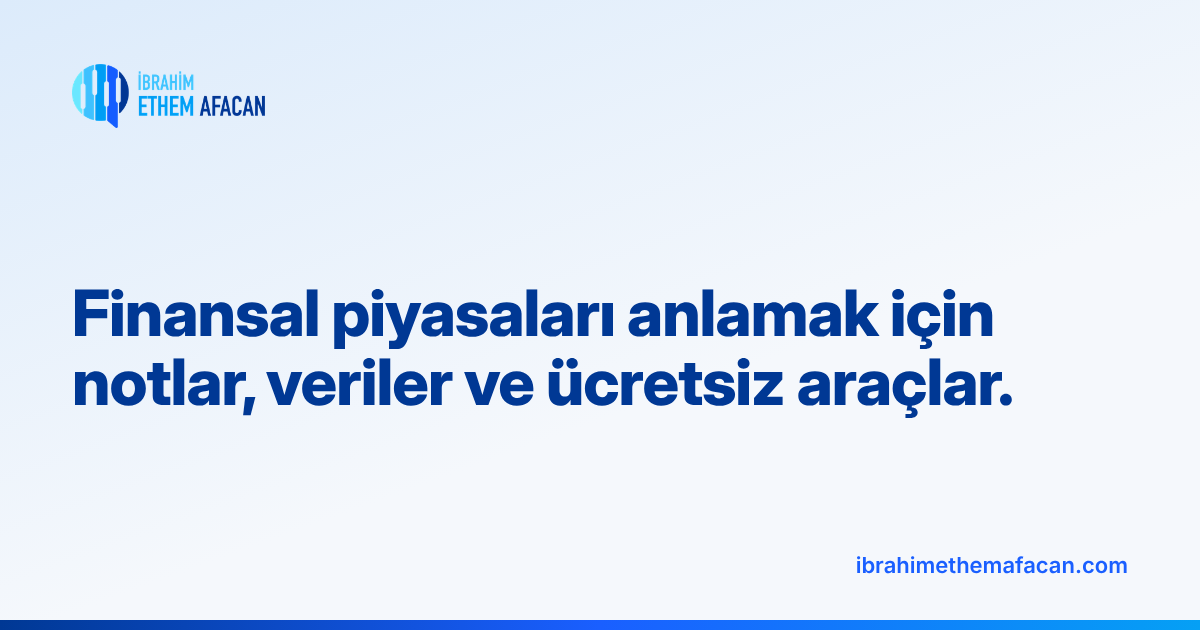
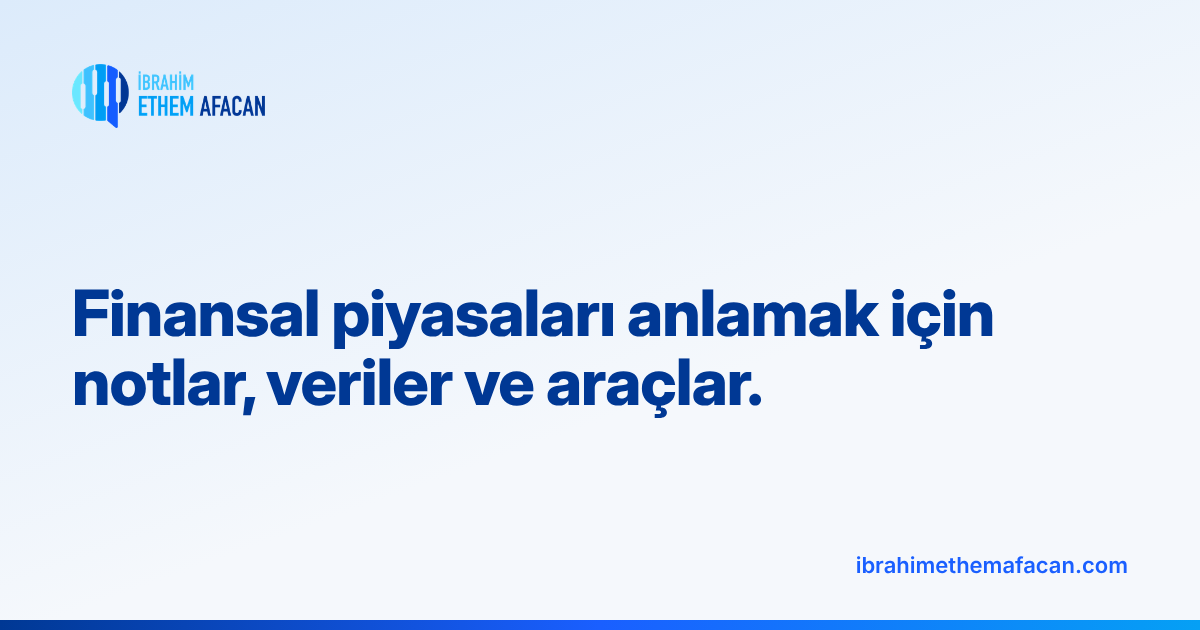
Ana sayfa başlığı: 'ücretsiz' kaldırıldı
Claude-Session: https://claude.ai/code/session_013mrGbpFadh1h9epcSoKPzq

Changed region(s): [[0.4625, 0.573, 0.8633, 0.6635]]

diff --git a/index.html b/index.html
@@ -11,14 +11,14 @@
   <meta property="og:title" content="İbrahim Ethem Afacan">
   <meta property="og:description" content="İbrahim Ethem Afacan: portföy yöneticisi. Piyasa notları, sermaye piyasası lisans köşesi ve yatırımcılar için ücretsiz araçlar.">
   <meta property="og:url" content="https://ibrahimethemafacan.com/">
-  <meta property="og:image" content="https://ibrahimethemafacan.com/img/og-home.png">
+  <meta property="og:image" content="https://ibrahimethemafacan.com/img/og-home.png?v=2">
   <meta property="og:image:width" content="1200">
   <meta property="og:image:height" content="630">
   <meta name="twitter:card" content="summary_large_image">
   <meta name="twitter:site" content="@ibrahim___ethem">
   <meta name="twitter:title" content="İbrahim Ethem Afacan">
   <meta name="twitter:description" content="İbrahim Ethem Afacan: portföy yöneticisi. Piyasa notları, sermaye piyasası lisans köşesi ve yatırımcılar için ücretsiz araçlar.">
-  <meta name="twitter:image" content="https://ibrahimethemafacan.com/img/og-home.png">
+  <meta name="twitter:image" content="https://ibrahimethemafacan.com/img/og-home.png?v=2">
   <link rel="icon" href="/favicon.ico" sizes="any">
   <link rel="icon" type="image/png" sizes="32x32" href="/img/favicon-32.png">
   <link rel="icon" type="image/png" sizes="192x192" href="/img/favicon-192.png">
@@ -44,7 +44,7 @@
     <section class="hero">
       <div class="wrap">
         <div class="hero-text">
-          <h1>Finansal piyasaları anlamak için notlar, veriler ve ücretsiz araçlar.</h1>
+          <h1>Finansal piyasaları anlamak için notlar, veriler ve araçlar.</h1>
           <p class="lede">Yatırım araçlarının gerçek getirilerinden lisans sınavlarına hazırlığa, sahadan derslerden piyasa notlarına: yatırımcıların ve sermaye piyasalarında kariyer hedefleyenlerin işine yarayacak içerikler tek yerde.</p>
           <div class="actions">
             <a class="btn primary" href="#araclar">Araçları keşfet</a>

diff --git a/hakkinda.html b/hakkinda.html
@@ -11,14 +11,14 @@
   <meta property="og:title" content="Hakkımda — İbrahim Ethem Afacan">
   <meta property="og:description" content="İbrahim Ethem Afacan hakkında: hukuktan sermaye piyasalarına.">
   <meta property="og:url" content="https://ibrahimethemafacan.com/hakkinda.html">
-  <meta property="og:image" content="https://ibrahimethemafacan.com/img/og-home.png">
+  <meta property="og:image" content="https://ibrahimethemafacan.com/img/og-home.png?v=2">
   <meta property="og:image:width" content="1200">
   <meta property="og:image:height" content="630">
   <meta name="twitter:card" content="summary_large_image">
   <meta name="twitter:site" content="@ibrahim___ethem">
   <meta name="twitter:title" content="Hakkımda — İbrahim Ethem Afacan">
   <meta name="twitter:description" content="İbrahim Ethem Afacan hakkında: hukuktan sermaye piyasalarına.">
-  <meta name="twitter:image" content="https://ibrahimethemafacan.com/img/og-home.png">
+  <meta name="twitter:image" content="https://ibrahimethemafacan.com/img/og-home.png?v=2">
   <link rel="icon" href="/favicon.ico" sizes="any">
   <link rel="icon" type="image/png" sizes="32x32" href="/img/favicon-32.png">
   <link rel="icon" type="image/png" sizes="192x192" href="/img/favicon-192.png">
